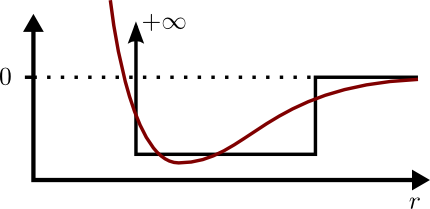
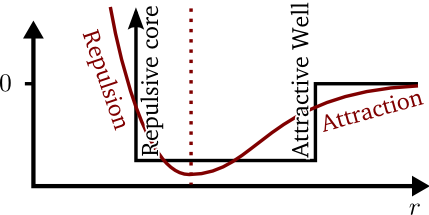
More work on tutorial 4

diff --git a/htdocs/pages/tutorial4.php b/htdocs/pages/tutorial4.php
@@ -55,21 +55,40 @@
   Square-well molecules are simple models which display the two
   fundamental features of real molecules, a short range repulsion (due
   to overlapping electron clouds) and longer ranged attraction (due to
-  van-der-waals/London/dispersion forces). For example, when two
-  distant square-well particles approach each other and reach a
-  separation of $r=\lambda\,\sigma$, they enter the well (or "capture"
-  each other) and a momentum impulse increases their kinetic energy by
-  $\varepsilon$ (they are attracted to each other). If they then
-  approach the inner core and reach a separation of $r=\sigma$, they
-  will be unable to pay the (infinite) energy cost to enter the core
-  and will instead elastically bounce off it. Once they begin to
-  retreat from each other (either by bouncing off the core or by
-  missing it) and once again reach a separation of
-  $r=\lambda\,\sigma$, they must have enough kinetic energy to escape
-  the well and pay the energy cost, $\varepsilon$, otherwise they will
-  bounce off the inside of the well.
+  van-der-waals/London/dispersion forces). A comparison of the
+  square-well model (<span style="font-weight:bold; color:#000;">black</span>) and a "realistic" interatomic potential
+  (<span style="font-weight:bold; color:#800;">red</span>) is given in the figure below:
 </p>
-<img src="/images/swcomparison.png" alt="A diagram of a square-well molecule including its parameters" width="650" height="232" style="display:block;margin:0 auto 0 auto;">
+<img src="/images/swcomparison.png" alt="A diagram of a square-well molecule including its parameters" width="429" height="215" style="display:block;margin:0 auto 0 auto;">
+<p>
+  It is clear that the square-well potential is a rough approximation
+  of the "realistic" potential, but its dynamics are not immediately
+  clear. With the "realistic" potential, it is easy to see how a pair
+  of particles might "fall down" the potential and attract or repulse
+  each other, but how does this behaviour appear in the square-well
+  model?  When two distant square-well particles approach each other
+  and reach a separation of $r=\lambda\,\sigma$, they enter the well
+  (or "capture" each other) and a momentum impulse increases their
+  kinetic energy by $\varepsilon$ (they are attracted to each
+  other). If they then approach the inner core and reach a separation
+  of $r=\sigma$, they will be unable to pay the infinite energy cost
+  to enter the core and will instead elastically bounce off it. Once
+  they begin to retreat from each other (either by bouncing off the
+  core or by missing it) and reach a separation of
+  $r=\lambda\,\sigma$, they must have enough kinetic energy in the
+  direction of the well to escape it and pay the energy cost,
+  $\varepsilon$, otherwise they will bounce off the inside of the well
+  (both are attractive interactions).
+</p>
+<p>
+  If we used more steps to more accurately approximate the "realistic"
+  potential, we can quite quickly capture the full behaviour of the
+  smooth/"realistic" potential. However, the square-well model is so
+  interesting because it is so simple! If we can understand the
+  fundamental behaviour of square-well molecules, the fundamental
+  behaviour of realistic potentials will also be explained without the
+  additional complexity.
+</p>
 
 <h2>The System Studied</h2>
 <p>
@@ -150,7 +169,7 @@ Mode 1: Mono/Multi-component square wells
 </p>
 <?php codeblockstart(); ?>dynamod -m 1 -C 10 -d 0.5 --i1 0 -r 1 -o config.start.xml<?php codeblockend("brush: shell;"); ?>
 <p style="font-family:monospaced;">
-  The options passed
+  The options passed here
   are <a href="/index.php/tutorial2#initial-positions-and-crystals">discussed
   in detail in tutorial 2</a>. The only differences are that the
   number of particles has been increased to 4000 (<i>-C 10</i>), and
